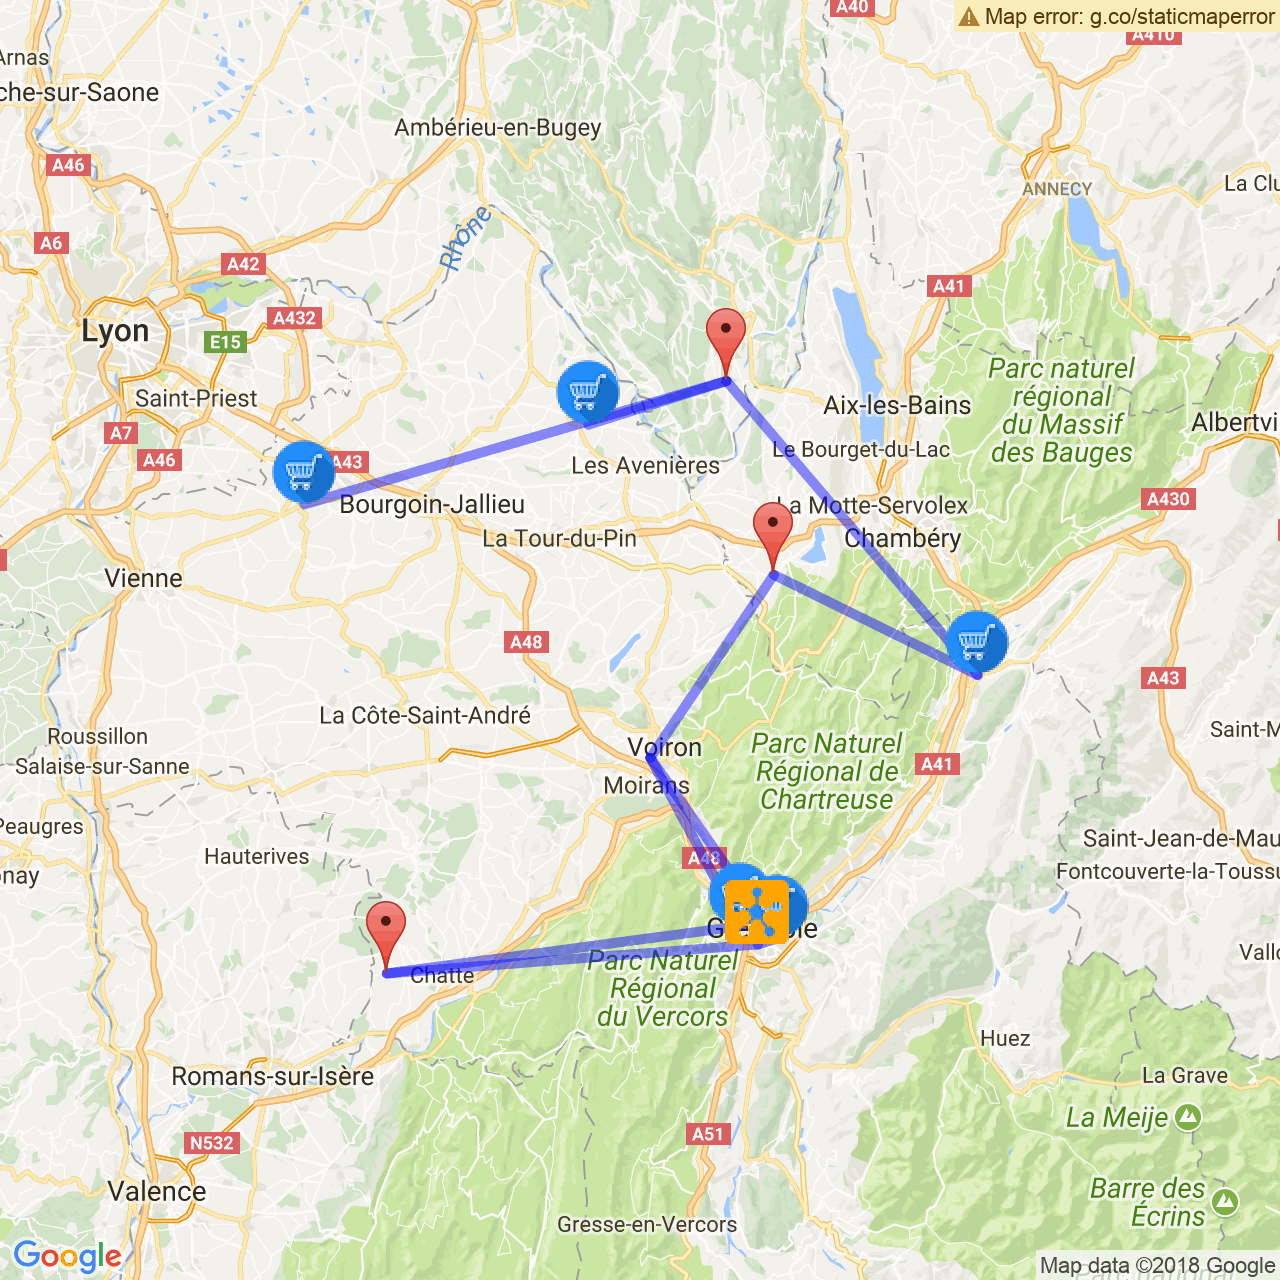
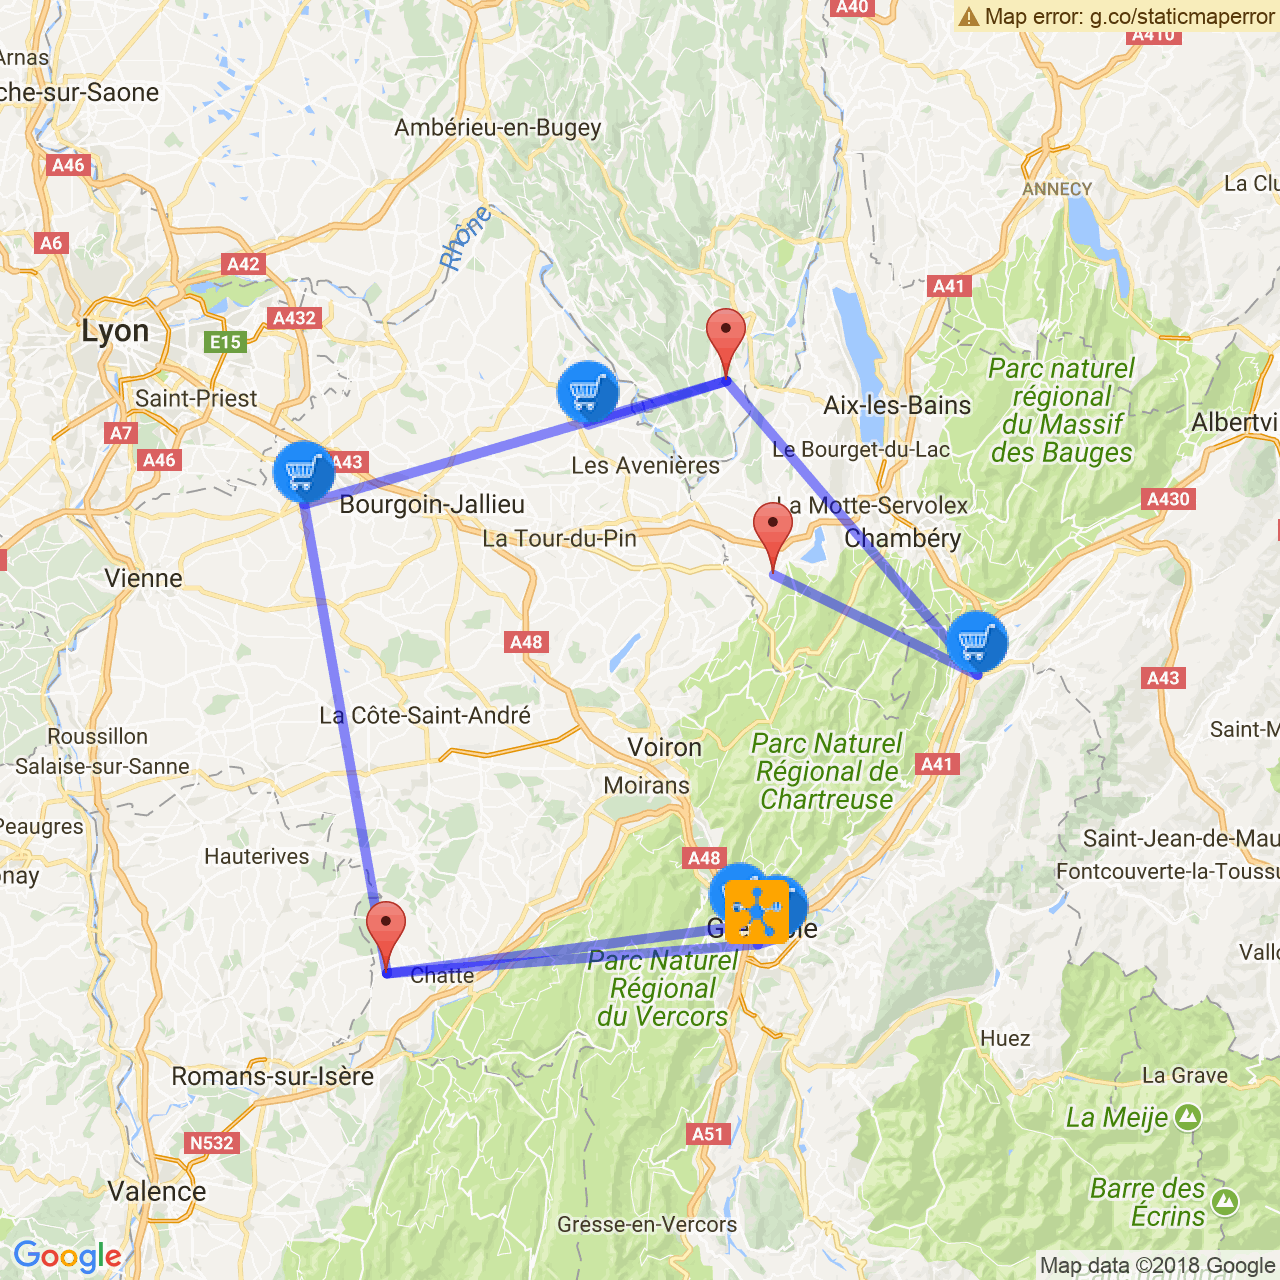
ajout d'une 4eme dimension Periode

diff --git a/src/Main.java b/src/Main.java
@@ -53,8 +53,8 @@ public class Main {
         Random ran = new Random();
 //        int nbProduits = max(producers[1].getSupply().size(), customers[1].getDemand().size());
         int nbProduits = 3;
-        int qProduits = 1000;
-        int nbPeriodes = 2;
+        int qProduits = 200;
+        int nbPeriodes = 10;
 
 //         Sets
         producers = new Producer[]{new Producer(0, "Fiction", 45.14429, 5.20811),
@@ -73,8 +73,8 @@ public class Main {
             }
         }
 
-        hubs = new Hub[]{new Hub(1, "Voiron", 17000, 45.35276, 5.56985),
-                new Hub(2, "MIN de Grenoble", 15500, 45.17232, 5.71741)};
+        hubs = new Hub[]{new Hub(1, "Voiron", 0, 45.35276, 5.56985),
+                new Hub(2, "MIN de Grenoble", 0, 45.17232, 5.71741)};
 
         double[][] openCost = new double[hubs.length][1];
         for (int i = 0; i < hubs.length; i++) {
@@ -179,6 +179,10 @@ public class Main {
 //        cHH = new double[][][]{{{0.0, 0.0, 0.0}, {14.0, 14.0, 14.0}}, {{13.5, 13.5, 13.5}, {0.0, 0.0, 0.0}}};
         System.out.println("Costs calculated");
 
+        double[][] bigMatrix = new double[hubs.length][nbPeriodes];
+        // Fill each row with 1.0
+        for (double[] row: bigMatrix)
+            Arrays.fill(row,bigM);
 
 
         /* Create the optimization problem object */
@@ -187,7 +191,7 @@ public class Main {
 
         System.out.println("Adding decision variables...");
         /* Add the decision variables to the problem */
-        op.addDecisionVariable("isOpen", true, new int[]{hubs.length,nbPeriodes, nbProduits}, 0, 1);  // name, isInteger, size , minValue, maxValue
+        op.addDecisionVariable("isOpen", true, new int[]{hubs.length,1}, 0, 1);  // name, isInteger, size , minValue, maxValue
         // Nombre de produits à transferer
         op.addDecisionVariable("yPC", true, new int[]{producers.length, customers.length, nbPeriodes, nbProduits}, 0, bigM);
         op.addDecisionVariable("yPH", true, new int[]{producers.length, hubs.length, nbPeriodes, nbProduits}, 0, bigM);
@@ -200,6 +204,7 @@ public class Main {
         op.setInputParameter("offer", new DoubleMatrixND(offer));
         op.setInputParameter("demand", new DoubleMatrixND(demand));
         op.setInputParameter("M", bigM);
+        op.setInputParameter("bigMatrix", bigMatrix);
 
         // Cout de transfert
         op.setInputParameter("cPH", new DoubleMatrixND(cPH));
@@ -220,16 +225,16 @@ public class Main {
         // produits entrants par client == Demande du client
         op.addConstraint("sum(yPC,1) + sum(yHC,1) == demand");
 
-        // Contrainte ouvertue Hub, s'il existe un flux entre un producteur et un hub , le hub est alors considéré ouvert
-        op.addConstraint("sum(yPH,1) <= M * isOpen");
+        // Contrainte ouverture Hub, s'il existe un flux entre un producteur et un hub ,peu importe la periode, le hub est alors considéré ouvert
+        op.addConstraint("sum(sum(sum(yPH,4),3),1) <= M * sum(isOpen,1)");
 
-        // Contrainte ouvertue Hub, s'il existe un flux entre un client et un hub , le hub est alors considéré ouvert
-        op.addConstraint("sum(yHC,2) <= M * isOpen");
+        // Contrainte ouverture Hub, s'il existe un flux entre un client et un hub,peu importe la periode, le hub est alors considéré ouvert
+        op.addConstraint("sum(sum(sum(yHC,4),3),2) <= M * sum(isOpen,1)");
 
 
         System.out.println("Setting objective functions...");
         /* Sets the objective function */
-        op.setObjectiveFunction("minimize", "sum(sum(sum(isOpen,3),2) .* openCost) + sum(cPH .* yPH) + sum(cHH .* yHH) + sum(cHC .* yHC) + sum(cPC .* yPC)");
+        op.setObjectiveFunction("minimize", "sum(isOpen .* openCost) + sum(cPH .* yPH) + sum(cHH .* yHH) + sum(cHC .* yHC) + sum(cPC .* yPC)");
 
 
         /* Call the solver to solve the problem */
@@ -293,6 +298,7 @@ public class Main {
             }
             for (int i = 0; i < chosenHubs.size(); i++) {
 //                mapString += "&markers=icon:http://pierret.pro/H.png%7C" + Double.toString(hubs[chosenHubs.get(i)].getLongitude()) + "," + Double.toString(hubs[chosenHubs.get(i)].getLatitude());
+                System.out.println(chosenHubs.get(i).getName());
                 mapString += "&markers=icon:http://pierret.pro/H.png%7C" + Double.toString(chosenHubs.get(i).getLatitude()) + "," + Double.toString(chosenHubs.get(i).getLongitude());
             }
 
@@ -304,7 +310,7 @@ public class Main {
                         + linkTwoPoints(sumMatrix("yPC"), "yPC", "0000ff")
                         + linkTwoPoints(sumMatrix("yHC"), "yHC", "00ff00")
                         + linkTwoPoints(sumMatrix("yPH"), "yPH", "ff0000");
-//                System.out.println(imageUrl);
+                System.out.println(imageUrl);
                 String destinationFile = "image.jpg";
                 // read the map image from Google
                 // then save it to a local file: image.jpg
@@ -422,7 +428,7 @@ public class Main {
                 for (Map.Entry<String, Integer> pair : period.entrySet()) {
                     double value = pair.getValue();
                     if (value > bigM) {
-                        bigM = 200 * (int) value;
+                        bigM = 100 * (int) value;
                     }
                     demand[i][j][k] = (double) (int) value;
                     k++;
@@ -440,7 +446,7 @@ public class Main {
                 for (Map.Entry<String, Integer> pair : period.entrySet()) {
                     double value = pair.getValue();
                     if (value > bigM) {
-                        bigM = 200 * (int) value;
+                        bigM = 100 * (int) value;
                     }
                     offer[i][j][k] = (double) (int) value;
                     k++;
@@ -457,13 +463,15 @@ public class Main {
 //                    result += "&path=" + Double.toString(producers[i].getLongitude()) + "," + Double.toString(producers[i].getLatitude()) + "|" + Double.toString(customers[j].getLongitude()) + "," + Double.toString(customers[j].getLatitude());
                     result += "&path=" + Double.toString(producers[i].getLatitude()) + "," + Double.toString(producers[i].getLongitude()) + "|" + Double.toString(customers[j].getLatitude()) + "," + Double.toString(customers[j].getLongitude());
                 }
-                if (matrixType.equals("yHC") && !customers[j].getName().equals("Fiction") && matrix[i][j] != 0) {
+                if (matrixType.equals("yHC") && !customers[j].getName().equals("Fiction") && matrix[i][j] != 0 && chosenHubs.contains(hubs[i])) {
 //                    result += "&path=" + Double.toString(hubs[i].getLongitude()) + "," + Double.toString(hubs[i].getLatitude()) + "|" + Double.toString(customers[j].getLongitude()) + "," + Double.toString(customers[j].getLatitude());
                     result += "&path=" + Double.toString(hubs[i].getLatitude()) + "," + Double.toString(hubs[i].getLongitude()) + "|" + Double.toString(customers[j].getLatitude()) + "," + Double.toString(customers[j].getLongitude());
+                    System.out.println("ADDED :"+hubs[i].getName());
                 }
-                if (matrixType.equals("yPH") && !producers[i].getName().equals("Fiction") && matrix[i][j] != 0) {
+                if (matrixType.equals("yPH") && !producers[i].getName().equals("Fiction") && matrix[i][j] != 0 && chosenHubs.contains(hubs[j])) {
 //                    result += "&path=" + Double.toString(producers[i].getLongitude()) + "," + Double.toString(producers[i].getLatitude()) + "|" + Double.toString(hubs[j].getLongitude()) + "," + Double.toString(hubs[j].getLatitude());
                     result += "&path=" + Double.toString(producers[i].getLatitude()) + "," + Double.toString(producers[i].getLongitude()) + "|" + Double.toString(hubs[j].getLatitude()) + "," + Double.toString(hubs[j].getLongitude());
+                    System.out.println("ADDED :"+hubs[i].getName());
                 }
             }
         }
